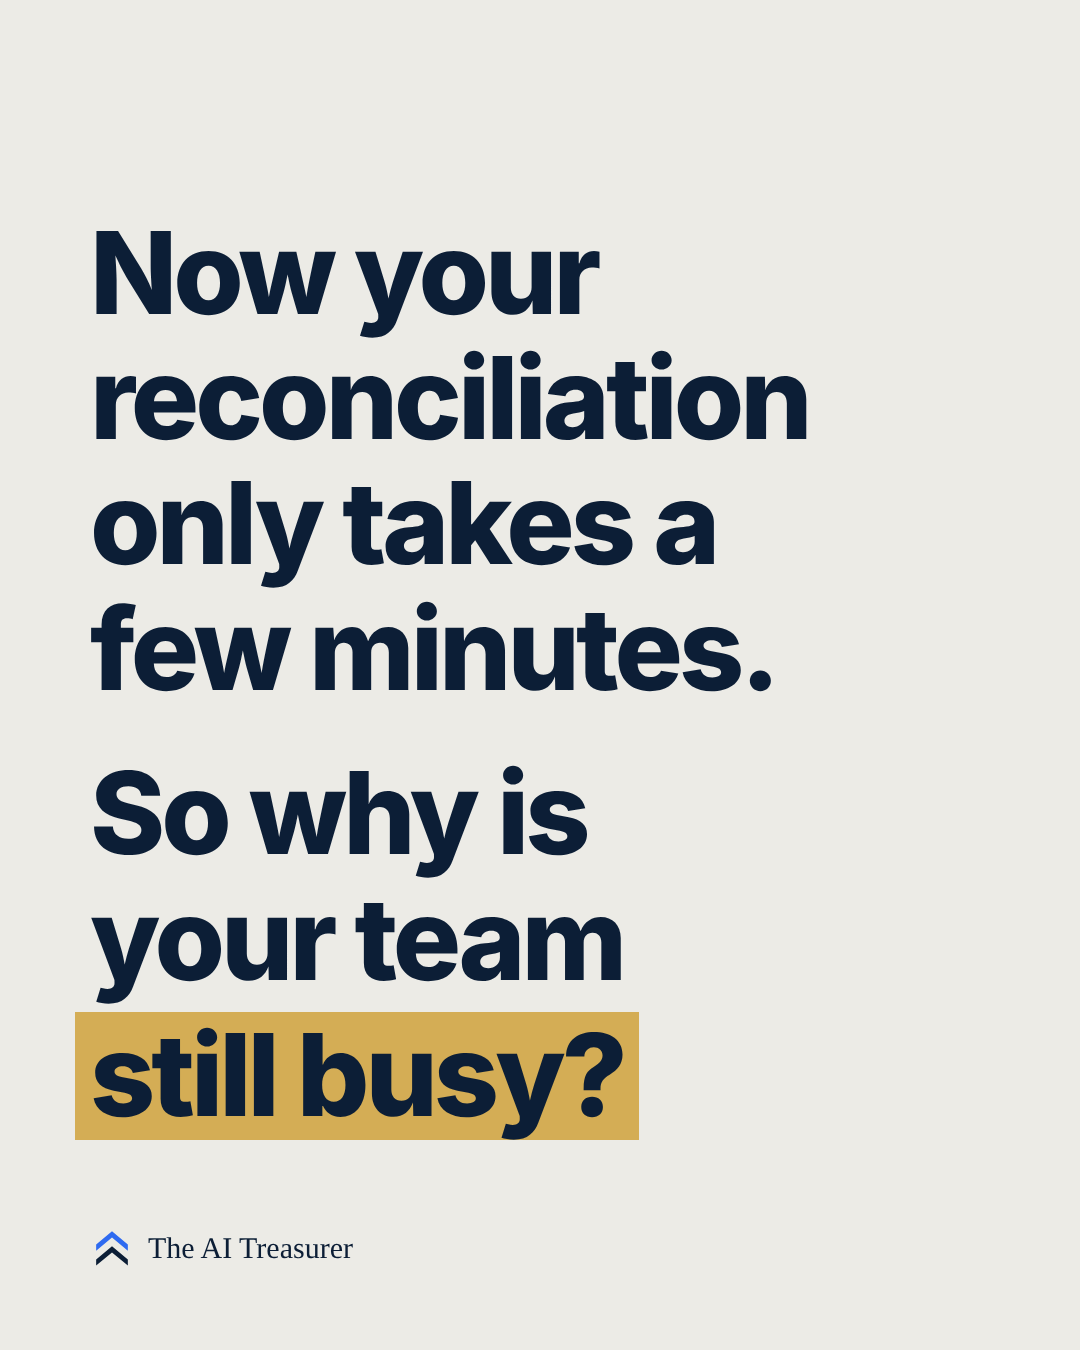
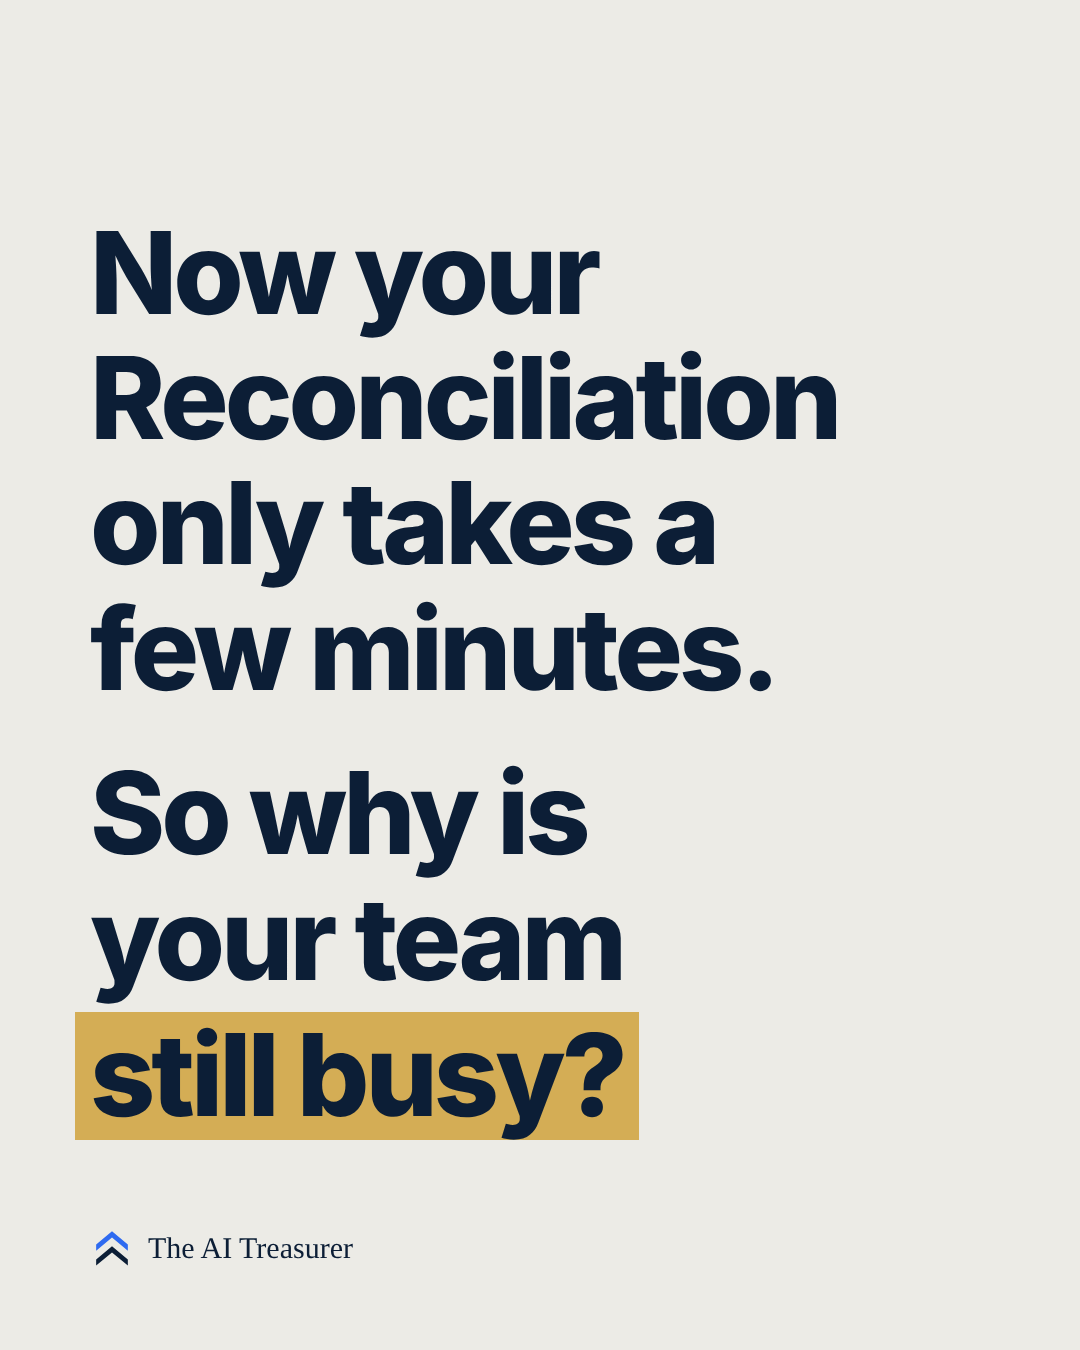
Article 3 draft: capitalise Reconciliation in the hook
Claude-Session: https://claude.ai/code/session_01JedePw4pbBaJB5BPxPMryK

Changed region(s): [[0.0917, 0.2489, 0.7944, 0.3422]]

diff --git a/edition_template.html b/edition_template.html
@@ -1999,7 +1999,7 @@
       <h2 id="arts-h">Insights</h2>
       <p class="arts-lede">Practical views for CFOs and Treasurers.</p>
       <div class="arts-list"><!--INSIGHTS-HOME-START-->
-        <a class="art-card has-img" href="/articles/where-freed-hours-go/"><span class="art-img"><img src="/articles/where-freed-hours-go/card.jpg" alt="" width="1200" height="627" loading="lazy"></span><span class="art-meta"><span class="art-topic">Finance leadership</span> &middot; 18 Nov 2026 &middot; 3 min read</span><span class="art-t">Now your reconciliation only takes a few minutes. So why is your team still busy?</span><span class="art-d">How to plan the time automation frees up, and how to check where it went.</span><span class="art-go">Read the article</span></a>
+        <a class="art-card has-img" href="/articles/where-freed-hours-go/"><span class="art-img"><img src="/articles/where-freed-hours-go/card.jpg" alt="" width="1200" height="627" loading="lazy"></span><span class="art-meta"><span class="art-topic">Finance leadership</span> &middot; 18 Nov 2026 &middot; 3 min read</span><span class="art-t">Now your Reconciliation only takes a few minutes. So why is your team still busy?</span><span class="art-d">How to plan the time automation frees up, and how to check where it went.</span><span class="art-go">Read the article</span></a>
         <a class="art-card has-img" href="/articles/what-did-treasury-know/"><span class="art-img"><img src="/articles/what-did-treasury-know/card.jpg" alt="" width="1200" height="627" loading="lazy"></span><span class="art-meta"><span class="art-topic">Controls and audit</span> &middot; 17 Nov 2026 &middot; 3 min read</span><span class="art-t">Your AI cash forecast just refreshed. Can Treasury prove what it knew last Monday?</span><span class="art-d">Why every major Treasury decision needs a forecast version of record, and what that record should hold.</span><span class="art-go">Read the article</span></a>
         <a class="art-card has-img" href="/articles/start-where-mistakes-are-cheap/"><span class="art-img"><img src="/articles/start-where-mistakes-are-cheap/card.png" alt="" width="1200" height="627" loading="lazy"></span><span class="art-meta"><span class="art-topic">AI and automation</span> &middot; 10 Nov 2026 &middot; 3 min read</span><span class="art-t">Your First AI Task in Treasury Should Be Unglamorous</span><span class="art-d">Four questions to decide which tasks you can trust AI with, and which must stay with your team.</span><span class="art-go">Read the article</span></a>
         <!--INSIGHTS-HOME-END-->

diff --git a/index.html b/index.html
@@ -1999,7 +1999,7 @@
       <h2 id="arts-h">Insights</h2>
       <p class="arts-lede">Practical views for CFOs and Treasurers.</p>
       <div class="arts-list"><!--INSIGHTS-HOME-START-->
-        <a class="art-card has-img" href="/articles/where-freed-hours-go/"><span class="art-img"><img src="/articles/where-freed-hours-go/card.jpg" alt="" width="1200" height="627" loading="lazy"></span><span class="art-meta"><span class="art-topic">Finance leadership</span> &middot; 18 Nov 2026 &middot; 3 min read</span><span class="art-t">Now your reconciliation only takes a few minutes. So why is your team still busy?</span><span class="art-d">How to plan the time automation frees up, and how to check where it went.</span><span class="art-go">Read the article</span></a>
+        <a class="art-card has-img" href="/articles/where-freed-hours-go/"><span class="art-img"><img src="/articles/where-freed-hours-go/card.jpg" alt="" width="1200" height="627" loading="lazy"></span><span class="art-meta"><span class="art-topic">Finance leadership</span> &middot; 18 Nov 2026 &middot; 3 min read</span><span class="art-t">Now your Reconciliation only takes a few minutes. So why is your team still busy?</span><span class="art-d">How to plan the time automation frees up, and how to check where it went.</span><span class="art-go">Read the article</span></a>
         <a class="art-card has-img" href="/articles/what-did-treasury-know/"><span class="art-img"><img src="/articles/what-did-treasury-know/card.jpg" alt="" width="1200" height="627" loading="lazy"></span><span class="art-meta"><span class="art-topic">Controls and audit</span> &middot; 17 Nov 2026 &middot; 3 min read</span><span class="art-t">Your AI cash forecast just refreshed. Can Treasury prove what it knew last Monday?</span><span class="art-d">Why every major Treasury decision needs a forecast version of record, and what that record should hold.</span><span class="art-go">Read the article</span></a>
         <a class="art-card has-img" href="/articles/start-where-mistakes-are-cheap/"><span class="art-img"><img src="/articles/start-where-mistakes-are-cheap/card.png" alt="" width="1200" height="627" loading="lazy"></span><span class="art-meta"><span class="art-topic">AI and automation</span> &middot; 10 Nov 2026 &middot; 3 min read</span><span class="art-t">Your First AI Task in Treasury Should Be Unglamorous</span><span class="art-d">Four questions to decide which tasks you can trust AI with, and which must stay with your team.</span><span class="art-go">Read the article</span></a>
         <!--INSIGHTS-HOME-END-->

diff --git a/articles/where-freed-hours-go/index.html b/articles/where-freed-hours-go/index.html
@@ -7,10 +7,10 @@
 <link rel="icon" type="image/svg+xml" href="/favicon.svg">
 <link rel="icon" type="image/png" sizes="32x32" href="/icon-32.png">
 <link rel="apple-touch-icon" href="/icon-180.png">
-<title>Now your reconciliation only takes a few minutes. So why is your team still busy? | The AI Treasurer</title>
+<title>Now your Reconciliation only takes a few minutes. So why is your team still busy? | The AI Treasurer</title>
 <meta name="description" content="Automation gives back pieces of time, not people. How to plan where the freed time goes before go live, and how to check where it went.">
 <link rel="canonical" href="https://theaitreasurer.com/articles/where-freed-hours-go/">
-<meta property="og:title" content="Now your reconciliation only takes a few minutes. So why is your team still busy?">
+<meta property="og:title" content="Now your Reconciliation only takes a few minutes. So why is your team still busy?">
 <meta property="og:description" content="How to plan the time automation frees up, and how to check where it went.">
 <meta property="og:type" content="article">
 <meta property="og:url" content="https://theaitreasurer.com/articles/where-freed-hours-go/">
@@ -186,11 +186,11 @@
 
   <div class="art-head">
 <div class="kicker">Insights &middot; Finance leadership</div>
-<h1>Now your reconciliation only takes a few minutes. So why is your team still busy?</h1>
+<h1>Now your Reconciliation only takes a few minutes. So why is your team still busy?</h1>
 <p class="dek">How to plan the time automation frees up, and how to check where it went.</p>
 <p class="byline"><span class="who">By Gopakumar Menon, CA, CPA, CTP</span> <span><span class="sep first">&middot;</span><time datetime="2026-11-18">18 November 2026</time></span> <span><span class="sep">&middot;</span>3 min read</span></p>
 </div>
-<figure class="hero" style="margin:0 0 28px"><img src="hero.png" width="1080" height="1350" alt="Now your reconciliation only takes a few minutes. So why is your team still busy?" style="display:block;width:100%;max-width:480px;height:auto;margin:0 auto;border-radius:6px"></figure>
+<figure class="hero" style="margin:0 0 28px"><img src="hero.png" width="1080" height="1350" alt="Now your Reconciliation only takes a few minutes. So why is your team still busy?" style="display:block;width:100%;max-width:480px;height:auto;margin:0 auto;border-radius:6px"></figure>
 <p class="tag">Illustrative example</p>
 <p>A Treasury team automates its daily bank reconciliation.</p>
 <p>Matching that took most of the morning now only takes a few minutes.</p>

diff --git a/insights/index.html b/insights/index.html
@@ -136,9 +136,9 @@
           <span class="ins-no" aria-hidden="true">03</span>
           <div class="ins-body">
             <p class="ins-meta"><span class="ins-topic">Finance leadership</span> &middot; <time datetime="2026-11-18">18 November 2026</time> &middot; <span class="nw">3 min read</span></p>
-            <h2 class="ins-t"><a href="/articles/where-freed-hours-go/">Now your reconciliation only takes a few minutes. So why is your team still busy?</a></h2>
+            <h2 class="ins-t"><a href="/articles/where-freed-hours-go/">Now your Reconciliation only takes a few minutes. So why is your team still busy?</a></h2>
             <p class="ins-d">How to plan the time automation frees up, and how to check where it went.</p>
-            <a class="ins-go" href="/articles/where-freed-hours-go/" aria-label="Read the article: Now your reconciliation only takes a few minutes. So why is your team still busy?">Read the article</a>
+            <a class="ins-go" href="/articles/where-freed-hours-go/" aria-label="Read the article: Now your Reconciliation only takes a few minutes. So why is your team still busy?">Read the article</a>
           </div>
           <a class="ins-img" href="/articles/where-freed-hours-go/" tabindex="-1" aria-hidden="true"><img src="/articles/where-freed-hours-go/card.jpg" alt="" width="1200" height="627" loading="lazy"></a>
         </li>
